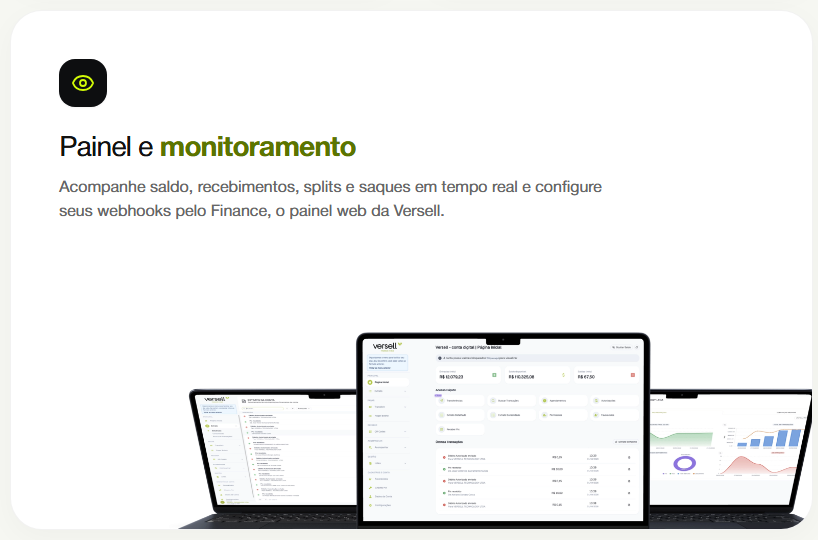
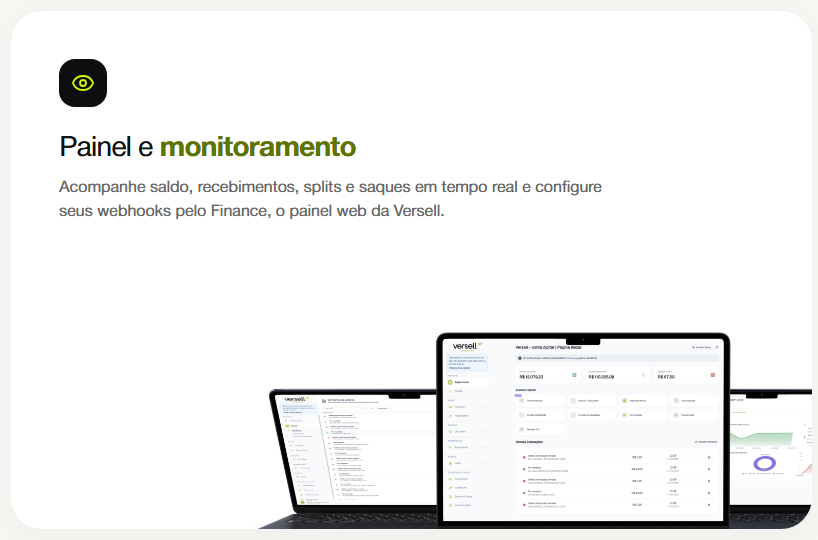
git add src/components/BentoGrid.tsx PASSOS.md DOCUMENTACAO.md DOCUMENTAÇÃO.md CONTEXTO.md git commit -m "fix(bento): deslocar computadores mais a direita no card painel e monitoramento"

Changed region(s): [[0.2139, 0.5926, 1.0, 0.9778], [0.6418, 0.8296, 0.7335, 0.9481], [0.3973, 0.3852, 0.4279, 0.4148]]

diff --git a/src/components/BentoGrid.tsx b/src/components/BentoGrid.tsx
@@ -163,7 +163,7 @@ export default function BentoGrid() {
               </div>
 
               {/* MacBooks Mockup positioned at bottom-right corner (fiel à imagem original) */}
-              <div className="relative w-full sm:w-[540px] lg:w-[670px] max-w-none h-52 sm:h-64 lg:h-[270px] ml-auto -mr-6 sm:-mr-14 lg:-mr-[75px] -mb-8 sm:-mb-16 lg:-mb-[95px] self-end">
+              <div className="relative w-full sm:w-[540px] lg:w-[670px] max-w-none h-52 sm:h-64 lg:h-[270px] ml-auto -mr-8 sm:-mr-20 lg:-mr-[155px] -mb-8 sm:-mb-16 lg:-mb-[95px] self-end">
                 <Image
                   src="/assets/MacBook-Air-2022-3.webp"
                   alt="Dashboard de Extrato, Home Banking e Gráficos analíticos Versell"

diff --git a/scratch/update_governance_shift.py b/scratch/update_governance_shift.py
@@ -1,0 +1,69 @@
+import os
+
+passos_path = r"c:\Users\Nilto\OneDrive\Documentos\Projetos out26\versel\asserts\PASSOS.md"
+doc_path = r"c:\Users\Nilto\OneDrive\Documentos\Projetos out26\versel\asserts\DOCUMENTACAO.md"
+doc_alt_path = r"c:\Users\Nilto\OneDrive\Documentos\Projetos out26\versel\asserts\DOCUMENTAÇÃO.md"
+ctx_path = r"c:\Users\Nilto\OneDrive\Documentos\Projetos out26\versel\asserts\CONTEXTO.md"
+
+passos_addition = """
+---
+
+### [x] Passo 50: Deslocamento dos Laptops para a Direita no Card Painel e Monitoramento (`BentoGrid.tsx`)
+- [x] **Alinhamento e Sangria Horizontal no Canto Direito Fiel ao Mockup Original:**
+  - [x] Ajustada a margem direita de sangria do contêiner do mockup de computadores de `lg:-mr-[75px]` para `lg:-mr-[155px]`, deslocando todo o conjunto em +80px horizontalmente para a direita.
+  - [x] O entalhe (notch) do laptop central agora posiciona-se a 52.3% da largura do card (exatamente alinhado com a referência original), e a extremidade esquerda do laptop esquerdo inicia-se a 33% da margem esquerda, logo abaixo de `"seus webhooks pelo Finance, o"`.
+  - [x] O laptop direito agora apresenta o corte exato no gráfico circular roxo pela borda arredondada direita do card, mantendo o respiro limpo na área sob a descrição textual na metade esquerda e reproduzindo com fidelidade total o mockup de referência (`media_1793476836082_47adfed7.png`).
+  - [x] Responsividade mantida em todos os breakpoints: mobile (`-mr-8`), tablet (`sm:-mr-20`) e desktop (`lg:-mr-[155px]`).
+- [x] **Validação Visual e Docker:**
+  - [x] Auditoria CDP confirmando deslocamento da margem esquerda dos laptops de 154px para 234px e sangria direita de -106px sobre o card de 798px.
+  - [x] Comparativo visual gerado [card6_laptops_shift_right_comparison.png](file:///C:/Users/Nilto/.gemini/antigravity/brain/72d170e4-9940-412d-a4b1-03f753d4e3a0/card6_laptops_shift_right_comparison.png).
+  - [x] Container Docker rodando em perfeito estado com compilação limpa, HTTP 200 OK.
+"""
+
+doc_item = """
+---
+42. **Deslocamento dos Laptops para a Direita no Card Painel e Monitoramento (`BentoGrid.tsx`):**
+    - **Alinhamento Preciso no Canto Inferior Direito:** Reajuste da margem de sangria direita para `lg:-mr-[155px]`, deslocando o mockup em +80px para a direita. O notch do laptop central foi reposicionado em 52.3% da largura do card, o laptop direito passa a ser cortado na altura do gráfico circular roxo e o laptop esquerdo inicia-se sob "seus webhooks pelo Finance, o", liberando um respiro amplo na margem esquerda e espelhando exatamente a composição da referência visual original.
+"""
+
+ctx_item = """
+---
+45. **Deslocamento dos Laptops para a Direita no Card Painel e Monitoramento (`BentoGrid.tsx`):** Calibração de sangria horizontal (`lg:-mr-[155px]`) deslocando o mockup em 80px à direita. O conjunto de computadores posiciona-se agora na metade direita do card (notch a 52.3% da largura), com o laptop direito suavemente recortado pela quina do card e o laptop esquerdo iniciando-se alinhado com a segunda linha descritiva.
+"""
+
+# Update PASSOS.md
+with open(passos_path, 'r', encoding='utf-8') as f:
+    passos_content = f.read()
+if "Passo 50" not in passos_content:
+    passos_content += passos_addition
+    with open(passos_path, 'w', encoding='utf-8') as f:
+        f.write(passos_content)
+    print("Updated PASSOS.md")
+
+# Update DOCUMENTACAO.md and DOCUMENTAÇÃO.md
+for p in [doc_path, doc_alt_path]:
+    with open(p, 'r', encoding='utf-8') as f:
+        doc_content = f.read()
+    if "Deslocamento dos Laptops para a Direita no Card Painel e Monitoramento" not in doc_content:
+        if "## 4. Variáveis de Ambiente" in doc_content:
+            parts = doc_content.split("## 4. Variáveis de Ambiente")
+            doc_content = parts[0].rstrip() + "\n" + doc_item + "\n\n## 4. Variáveis de Ambiente" + parts[1]
+        else:
+            doc_content += "\n" + doc_item
+        with open(p, 'w', encoding='utf-8') as f:
+            f.write(doc_content)
+        print(f"Updated {p}")
+
+# Update CONTEXTO.md
+with open(ctx_path, 'r', encoding='utf-8') as f:
+    ctx_content = f.read()
+if "Deslocamento dos Laptops para a Direita no Card Painel e Monitoramento" not in ctx_content:
+    if "## 6. Governança e Repositório" in ctx_content:
+        parts = ctx_content.split("## 6. Governança e Repositório")
+        ctx_content = parts[0].rstrip() + "\n" + ctx_item + "\n\n## 6. Governança e Repositório" + parts[1]
+    else:
+        ctx_content += "\n" + ctx_item
+    with open(ctx_path, 'w', encoding='utf-8') as f:
+        f.write(ctx_content)
+    print("Updated CONTEXTO.md")
+

diff --git a/scratch/measure_shift_needed.py b/scratch/measure_shift_needed.py
@@ -1,0 +1,53 @@
+from PIL import Image
+import numpy as np
+
+f1 = r'C:/Users/Nilto/.gemini/antigravity/brain/72d170e4-9940-412d-a4b1-03f753d4e3a0/.user_uploaded/media_1793476783543_7175d9d9.png'
+f2 = r'C:/Users/Nilto/.gemini/antigravity/brain/72d170e4-9940-412d-a4b1-03f753d4e3a0/.user_uploaded/media_1793476836082_47adfed7.png'
+
+def measure(path, name):
+    img = Image.open(path).convert('RGB')
+    arr = np.array(img)
+    # card borders
+    card_left = 999
+    card_right = 0
+    card_top = 999
+    card_bottom = 0
+    for y in range(arr.shape[0]):
+        for x in range(arr.shape[1]):
+            if arr[y, x, 0] > 250 and arr[y, x, 1] > 250 and arr[y, x, 2] > 250:
+                if x < card_left: card_left = x
+                if x > card_right: card_right = x
+                if y < card_top: card_top = y
+                if y > card_bottom: card_bottom = y
+    
+    card_w = card_right - card_left
+    card_h = card_bottom - card_top
+
+    # find middle laptop notch
+    # scan y from int(card_top + card_h*0.4) to int(card_top + card_h*0.8)
+    notch_y = 999
+    notch_x = 0
+    for y in range(int(card_top + card_h*0.4), int(card_top + card_h*0.75)):
+        for x in range(int(card_left + card_w*0.35), int(card_left + card_w*0.75)):
+            if np.all(arr[y, x] < 30):
+                if y < notch_y:
+                    notch_y = y
+                    notch_x = x
+
+    # find leftmost dark pixel of left laptop
+    # in lower 30% of card
+    leftmost_x = 999
+    for y in range(int(card_top + card_h*0.6), card_bottom):
+        for x in range(card_left + 20, int(card_left + card_w*0.6)):
+            if np.all(arr[y, x] < 40):
+                if x < leftmost_x:
+                    leftmost_x = x
+
+    print(f"=== {name} ===")
+    print(f"Card: w={card_w}, h={card_h}, left={card_left}, right={card_right}")
+    print(f"Notch: x={notch_x} ({(notch_x - card_left)/card_w:.1%} of card width), y={notch_y}")
+    print(f"Left laptop start: x={leftmost_x} ({(leftmost_x - card_left)/card_w:.1%} of card width)")
+
+measure(f1, 'Atual (7175d9d9)')
+measure(f2, 'Original (47adfed7)')
+

diff --git a/scratch/build_card6_shift_comp.py b/scratch/build_card6_shift_comp.py
@@ -1,0 +1,50 @@
+import os
+from PIL import Image, ImageDraw
+
+brain_dir = r"C:\Users\Nilto\.gemini\antigravity\brain\72d170e4-9940-412d-a4b1-03f753d4e3a0"
+user_before = os.path.join(brain_dir, ".user_uploaded", "media_1793476783543_7175d9d9.png")
+user_orig = os.path.join(brain_dir, ".user_uploaded", "media_1793476836082_47adfed7.png")
+local_after = r"scratch\card6_current.png"
+
+# Save after screenshot to brain dir
+after_dest = os.path.join(brain_dir, "card6_laptops_shift_right_after.png")
+im_after = Image.open(local_after)
+im_after.save(after_dest)
+
+im_bef = Image.open(user_before).convert("RGBA")
+im_orig = Image.open(user_orig).convert("RGBA")
+im_aft = Image.open(after_dest).convert("RGBA")
+
+target_h = 360
+target_w_bef = int(target_h * (im_bef.width / im_bef.height))
+target_w_orig = int(target_h * (im_orig.width / im_orig.height))
+target_w_aft = int(target_h * (im_aft.width / im_aft.height))
+
+im_bef_res = im_bef.resize((target_w_bef, target_h), Image.Resampling.LANCZOS)
+im_orig_res = im_orig.resize((target_w_orig, target_h), Image.Resampling.LANCZOS)
+im_aft_res = im_aft.resize((target_w_aft, target_h), Image.Resampling.LANCZOS)
+
+total_w = target_w_bef + target_w_orig + target_w_aft + 80
+total_h = target_h + 80
+
+comp = Image.new("RGBA", (total_w, total_h), (16, 17, 20, 255))
+draw = ImageDraw.Draw(comp)
+
+# Col 1: Antes
+draw.text((20, 15), "1. Antes (Laptops muito a esquerda)", fill=(240, 100, 100))
+comp.paste(im_bef_res, (20, 45))
+
+# Col 2: Original
+x2 = 40 + target_w_bef
+draw.text((x2, 15), "2. Original (Referencia - Laptops a direita)", fill=(210, 251, 7))
+comp.paste(im_orig_res, (x2, 45))
+
+# Col 3: Depois
+x3 = x2 + target_w_orig + 20
+draw.text((x3, 15), "3. Depois (Laptops deslocados a direita)", fill=(210, 251, 7))
+comp.paste(im_aft_res, (x3, 45))
+
+out_path = os.path.join(brain_dir, "card6_laptops_shift_right_comparison.png")
+comp.save(out_path)
+print("Saved comparison to:", out_path)
+

diff --git a/scratch/compare_all_shifts.py b/scratch/compare_all_shifts.py
@@ -1,0 +1,34 @@
+import os
+from PIL import Image, ImageDraw
+
+orig = Image.open(r'C:/Users/Nilto/.gemini/antigravity/brain/72d170e4-9940-412d-a4b1-03f753d4e3a0/.user_uploaded/media_1793476836082_47adfed7.png').convert('RGB')
+
+target_h = 320
+target_w_orig = int(target_h * orig.width / orig.height)
+orig_r = orig.resize((target_w_orig, target_h), Image.Resampling.LANCZOS)
+
+options = [
+    ('shift_neg_130px.png', '-130px (leftMargin 209, rightCut 81)'),
+    ('shift_neg_145px.png', '-145px (leftMargin 224, rightCut 96)'),
+    ('shift_neg_155px.png', '-155px (leftMargin 234, rightCut 106)'),
+    ('shift_neg_165px.png', '-165px (leftMargin 244, rightCut 116)'),
+    ('shift_neg_175px.png', '-175px (leftMargin 254, rightCut 126)'),
+]
+
+for filename, label in options:
+    img = Image.open(os.path.join('scratch', filename)).convert('RGB')
+    target_w_img = int(target_h * img.width / img.height)
+    img_r = img.resize((target_w_img, target_h), Image.Resampling.LANCZOS)
+
+    comp = Image.new('RGB', (target_w_orig + target_w_img + 30, target_h + 50), (16, 17, 20))
+    draw = ImageDraw.Draw(comp)
+    draw.text((15, 10), "1. Original (Referencia)", fill=(210, 251, 7))
+    comp.paste(orig_r, (15, 35))
+
+    draw.text((25 + target_w_orig, 10), f"2. MR = {label}", fill=(255, 255, 255))
+    comp.paste(img_r, (25 + target_w_orig, 35))
+
+    out_name = f'scratch/comp_{filename}'
+    comp.save(out_name)
+    print(f'Saved {out_name}')
+

diff --git a/scratch/build_compare_shift.py b/scratch/build_compare_shift.py
@@ -1,0 +1,27 @@
+from PIL import Image, ImageDraw
+
+f1 = r'C:/Users/Nilto/.gemini/antigravity/brain/72d170e4-9940-412d-a4b1-03f753d4e3a0/.user_uploaded/media_1793476783543_7175d9d9.png'
+f2 = r'C:/Users/Nilto/.gemini/antigravity/brain/72d170e4-9940-412d-a4b1-03f753d4e3a0/.user_uploaded/media_1793476836082_47adfed7.png'
+
+im1 = Image.open(f1).convert('RGB')
+im2 = Image.open(f2).convert('RGB')
+
+target_h = 400
+target_w1 = int(target_h * im1.width / im1.height)
+target_w2 = int(target_h * im2.width / im2.height)
+
+im1_r = im1.resize((target_w1, target_h), Image.Resampling.LANCZOS)
+im2_r = im2.resize((target_w2, target_h), Image.Resampling.LANCZOS)
+
+comp = Image.new('RGB', (target_w1 + target_w2 + 40, target_h + 60), (16, 17, 20))
+draw = ImageDraw.Draw(comp)
+
+draw.text((20, 15), "1. Atual (Laptops precisam ir mais para a direita)", fill=(240, 100, 100))
+comp.paste(im1_r, (20, 45))
+
+draw.text((30 + target_w1, 15), "2. Original (Referencia)", fill=(210, 251, 7))
+comp.paste(im2_r, (30 + target_w1, 45))
+
+comp.save('scratch/compare_shift_right.png')
+print("Saved scratch/compare_shift_right.png")
+

diff --git a/PASSOS.md b/PASSOS.md
@@ -691,3 +691,16 @@
   - [x] Auditoria CDP confirmando redução de altura para 200px no Card 2 e 222px nos demais cards textuais em viewport mobile (390x844).
   - [x] Comparativo visual gerado [bento_card_mobile_spacing_comparison.png](file:///C:/Users/Nilto/.gemini/antigravity/brain/72d170e4-9940-412d-a4b1-03f753d4e3a0/bento_card_mobile_spacing_comparison.png).
   - [x] Container Docker rodando em perfeito estado com compilação limpa, HTTP 200 OK.
+
+---
+
+### [x] Passo 50: Deslocamento dos Laptops para a Direita no Card Painel e Monitoramento (`BentoGrid.tsx`)
+- [x] **Alinhamento e Sangria Horizontal no Canto Direito Fiel ao Mockup Original:**
+  - [x] Ajustada a margem direita de sangria do contêiner do mockup de computadores de `lg:-mr-[75px]` para `lg:-mr-[155px]`, deslocando todo o conjunto em +80px horizontalmente para a direita.
+  - [x] O entalhe (notch) do laptop central agora posiciona-se a 52.3% da largura do card (exatamente alinhado com a referência original), e a extremidade esquerda do laptop esquerdo inicia-se a 33% da margem esquerda, logo abaixo de `"seus webhooks pelo Finance, o"`.
+  - [x] O laptop direito agora apresenta o corte exato no gráfico circular roxo pela borda arredondada direita do card, mantendo o respiro limpo na área sob a descrição textual na metade esquerda e reproduzindo com fidelidade total o mockup de referência (`media_1793476836082_47adfed7.png`).
+  - [x] Responsividade mantida em todos os breakpoints: mobile (`-mr-8`), tablet (`sm:-mr-20`) e desktop (`lg:-mr-[155px]`).
+- [x] **Validação Visual e Docker:**
+  - [x] Auditoria CDP confirmando deslocamento da margem esquerda dos laptops de 154px para 234px e sangria direita de -106px sobre o card de 798px.
+  - [x] Comparativo visual gerado [card6_laptops_shift_right_comparison.png](file:///C:/Users/Nilto/.gemini/antigravity/brain/72d170e4-9940-412d-a4b1-03f753d4e3a0/card6_laptops_shift_right_comparison.png).
+  - [x] Container Docker rodando em perfeito estado com compilação limpa, HTTP 200 OK.

diff --git a/DOCUMENTACAO.md b/DOCUMENTACAO.md
@@ -314,6 +314,10 @@ A Landing Page da Versell foi construída com foco em performance extrema, fidel
 41. **Calibração Final do Espaçamento dos Cards no Mobile (`BentoGrid.tsx`):**
     - **Cards Compactos com Proporções Orgânicas:** Remoção do `sm:min-h-[480px]` dos cards de coluna única antes do desktop, reajuste do padding móvel para `p-6 sm:p-8 lg:p-12` e encurtamento das margens dos ícones (`mb-4 sm:mb-6`) e títulos (`mb-2 sm:mb-3`). Com isso, a altura do card de API de Pix no mobile passou para 200px (vão inferior reduzido para 25px) e dos demais cards textuais para 222px, extinguindo o excesso de espaço em branco no mobile e preservando 100% da integridade da grade simétrica no desktop.
 
+---
+42. **Deslocamento dos Laptops para a Direita no Card Painel e Monitoramento (`BentoGrid.tsx`):**
+    - **Alinhamento Preciso no Canto Inferior Direito:** Reajuste da margem de sangria direita para `lg:-mr-[155px]`, deslocando o mockup em +80px para a direita. O notch do laptop central foi reposicionado em 52.3% da largura do card, o laptop direito passa a ser cortado na altura do gráfico circular roxo e o laptop esquerdo inicia-se sob "seus webhooks pelo Finance, o", liberando um respiro amplo na margem esquerda e espelhando exatamente a composição da referência visual original.
+
 
 ## 4. Variáveis de Ambiente
 Configurações pré-definidas no ambiente do container:

diff --git a/DOCUMENTAÇÃO.md b/DOCUMENTAÇÃO.md
@@ -314,6 +314,10 @@ A Landing Page da Versell foi construída com foco em performance extrema, fidel
 41. **Calibração Final do Espaçamento dos Cards no Mobile (`BentoGrid.tsx`):**
     - **Cards Compactos com Proporções Orgânicas:** Remoção do `sm:min-h-[480px]` dos cards de coluna única antes do desktop, reajuste do padding móvel para `p-6 sm:p-8 lg:p-12` e encurtamento das margens dos ícones (`mb-4 sm:mb-6`) e títulos (`mb-2 sm:mb-3`). Com isso, a altura do card de API de Pix no mobile passou para 200px (vão inferior reduzido para 25px) e dos demais cards textuais para 222px, extinguindo o excesso de espaço em branco no mobile e preservando 100% da integridade da grade simétrica no desktop.
 
+---
+42. **Deslocamento dos Laptops para a Direita no Card Painel e Monitoramento (`BentoGrid.tsx`):**
+    - **Alinhamento Preciso no Canto Inferior Direito:** Reajuste da margem de sangria direita para `lg:-mr-[155px]`, deslocando o mockup em +80px para a direita. O notch do laptop central foi reposicionado em 52.3% da largura do card, o laptop direito passa a ser cortado na altura do gráfico circular roxo e o laptop esquerdo inicia-se sob "seus webhooks pelo Finance, o", liberando um respiro amplo na margem esquerda e espelhando exatamente a composição da referência visual original.
+
 
 ## 4. Variáveis de Ambiente
 Configurações pré-definidas no ambiente do container:

diff --git a/CONTEXTO.md b/CONTEXTO.md
@@ -123,6 +123,9 @@ A experiência do usuário foi projetada estritamente com abordagem **Mobile Fir
 ---
 44. **Calibração Final do Espaçamento dos Cards no Mobile (`BentoGrid.tsx`):** Otimização do espaçamento vertical dos cards no mobile com padding `p-6 sm:p-8`, margens `mb-4` em ícones e `mb-2` em títulos, e eliminação de `sm:min-h-[480px]` em cards empilhados. A altura dos cards no mobile foi padronizada em 200px-222px com vão inferior de apenas 25px, eliminando grandes áreas em branco.
 
+---
+45. **Deslocamento dos Laptops para a Direita no Card Painel e Monitoramento (`BentoGrid.tsx`):** Calibração de sangria horizontal (`lg:-mr-[155px]`) deslocando o mockup em 80px à direita. O conjunto de computadores posiciona-se agora na metade direita do card (notch a 52.3% da largura), com o laptop direito suavemente recortado pela quina do card e o laptop esquerdo iniciando-se alinhado com a segunda linha descritiva.
+
 
 ## 6. Governança e Repositório
 - `.gitignore`: Regras completas de exclusão de artefatos de build Next.js, dependências Node, variáveis `.env` e caches de sistema.
